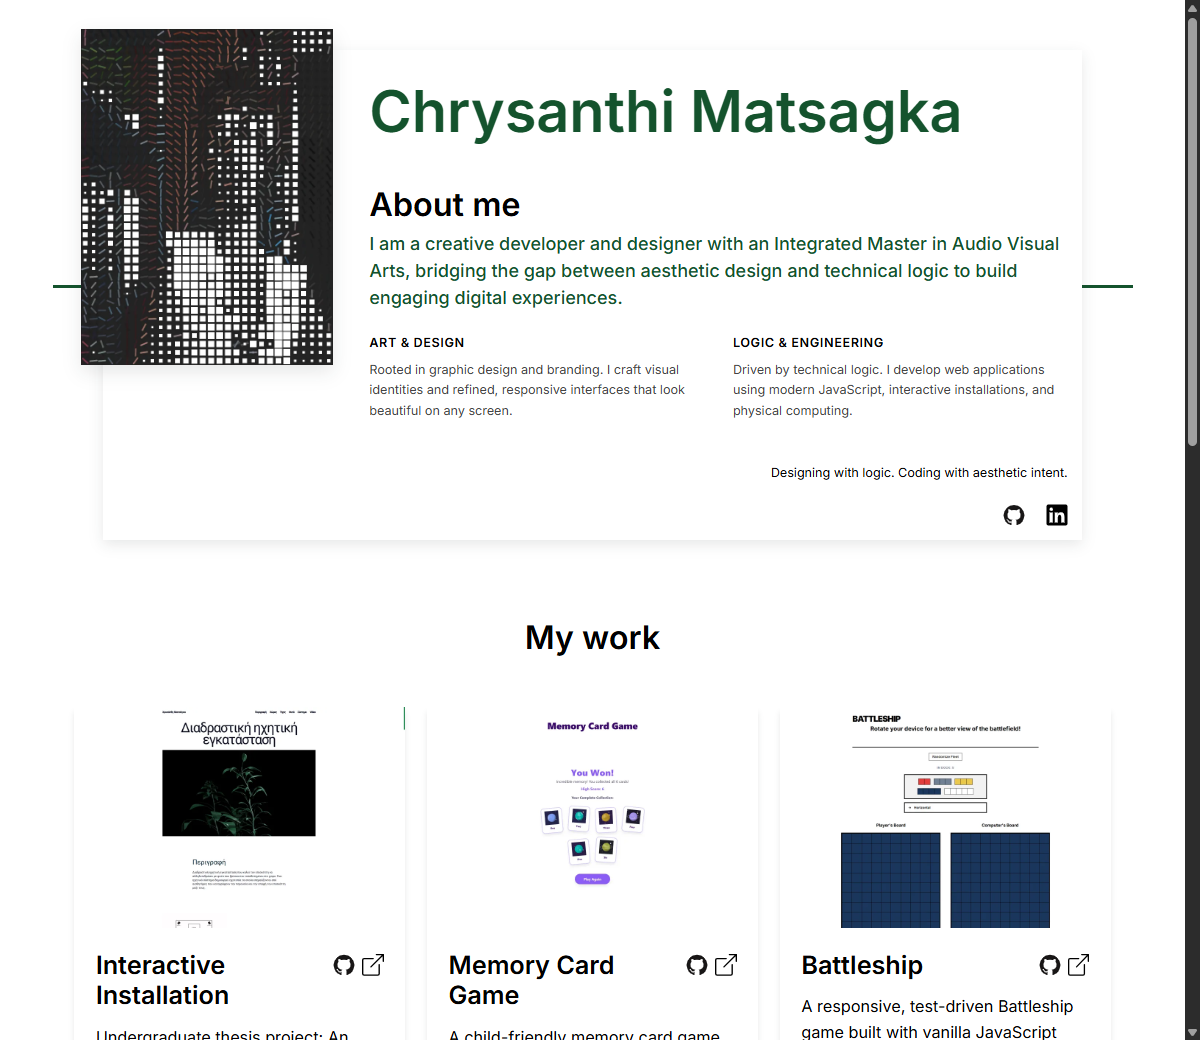
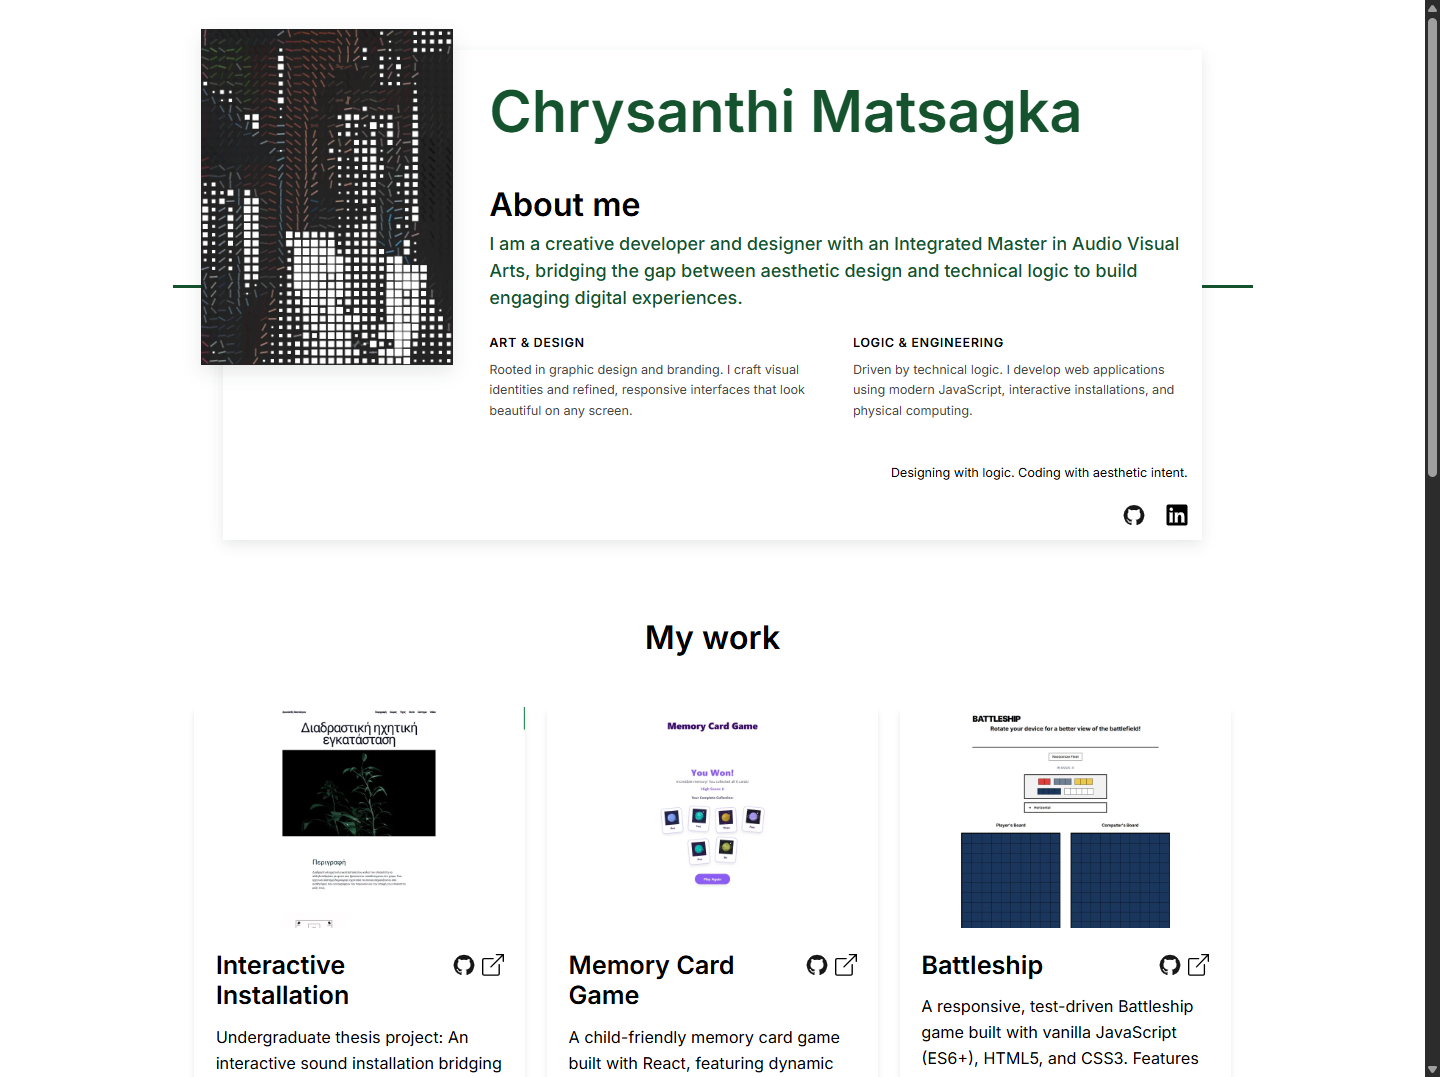
docs: update preview images of weatherApp

diff --git a/src/projectsData.js b/src/projectsData.js
@@ -4,10 +4,6 @@ import weatherApp1x from './assets/preview/weatherApp_1x.webp';
 import weatherApp2x from './assets/preview/weatherApp_2x.webp';
 import todoList1x from './assets/preview/todoList_1x.webp';
 import todoList2x from './assets/preview/todoList_2x.webp';
-import ticTacToe1x from './assets/preview/ticTacToe_1x.webp';
-import ticTacToe2x from './assets/preview/ticTacToe_2x.webp';
-import restaurantPage1x from './assets/preview/restaurantPage_1x.webp';
-import restaurantPage2x from './assets/preview/restaurantPage_2x.webp';
 import installation1x from './assets/preview/installation_1x.webp';
 import installation2x from './assets/preview/installation_2x.webp';
 import cvApplication1x from './assets/preview/cvApplication_1x.webp';
